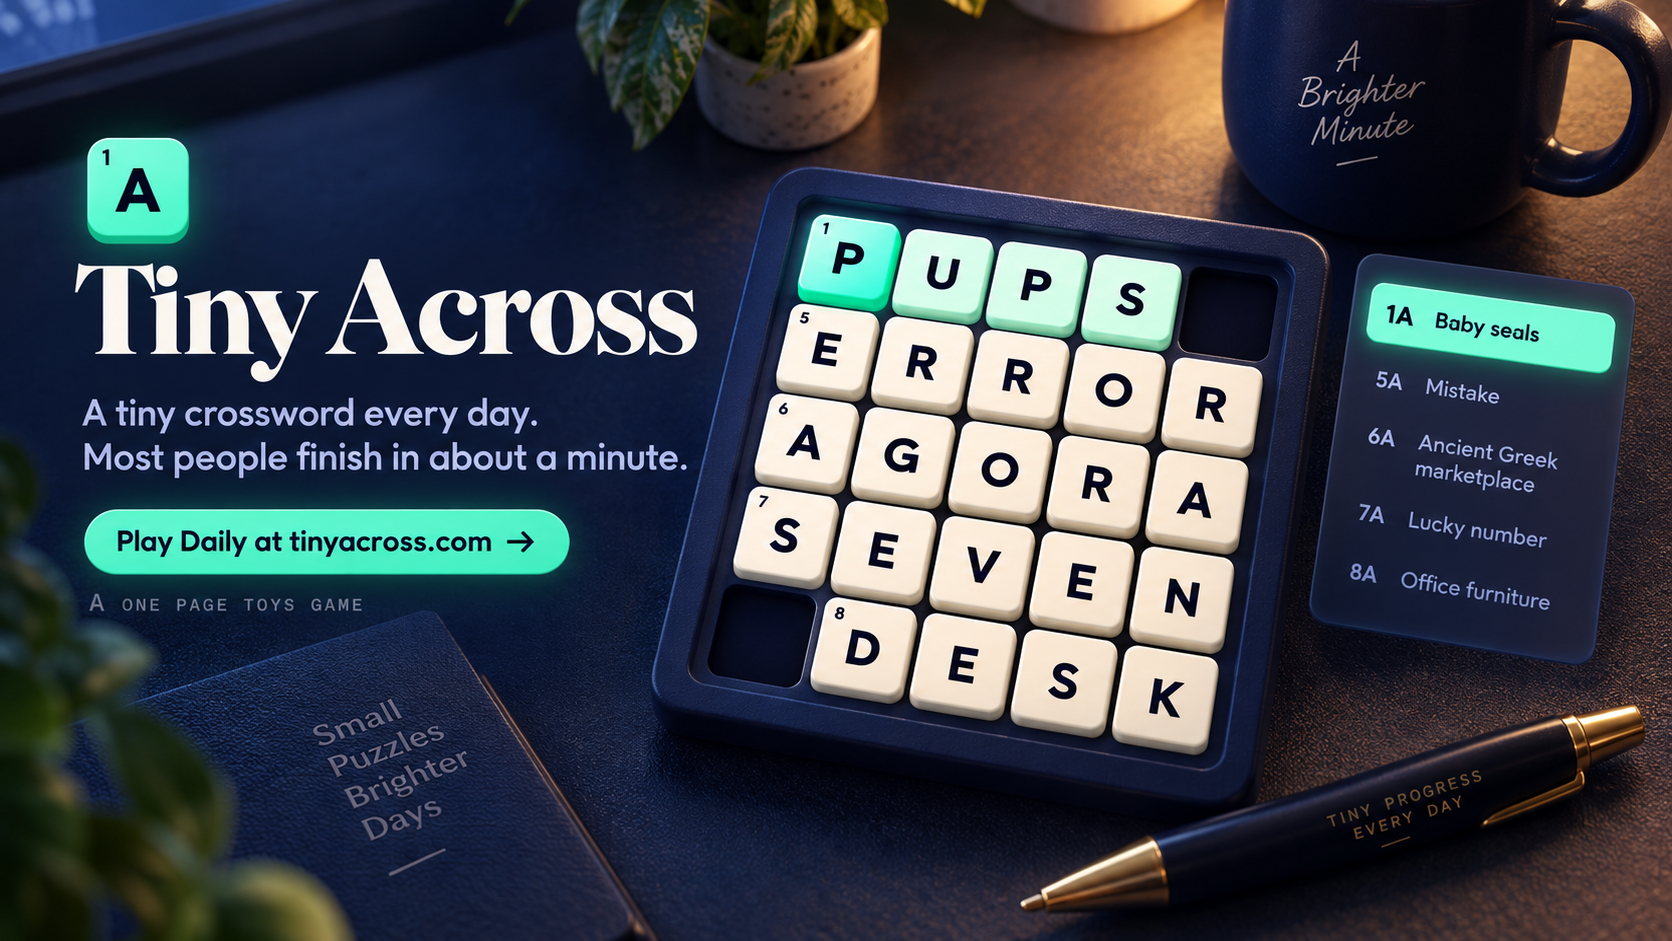
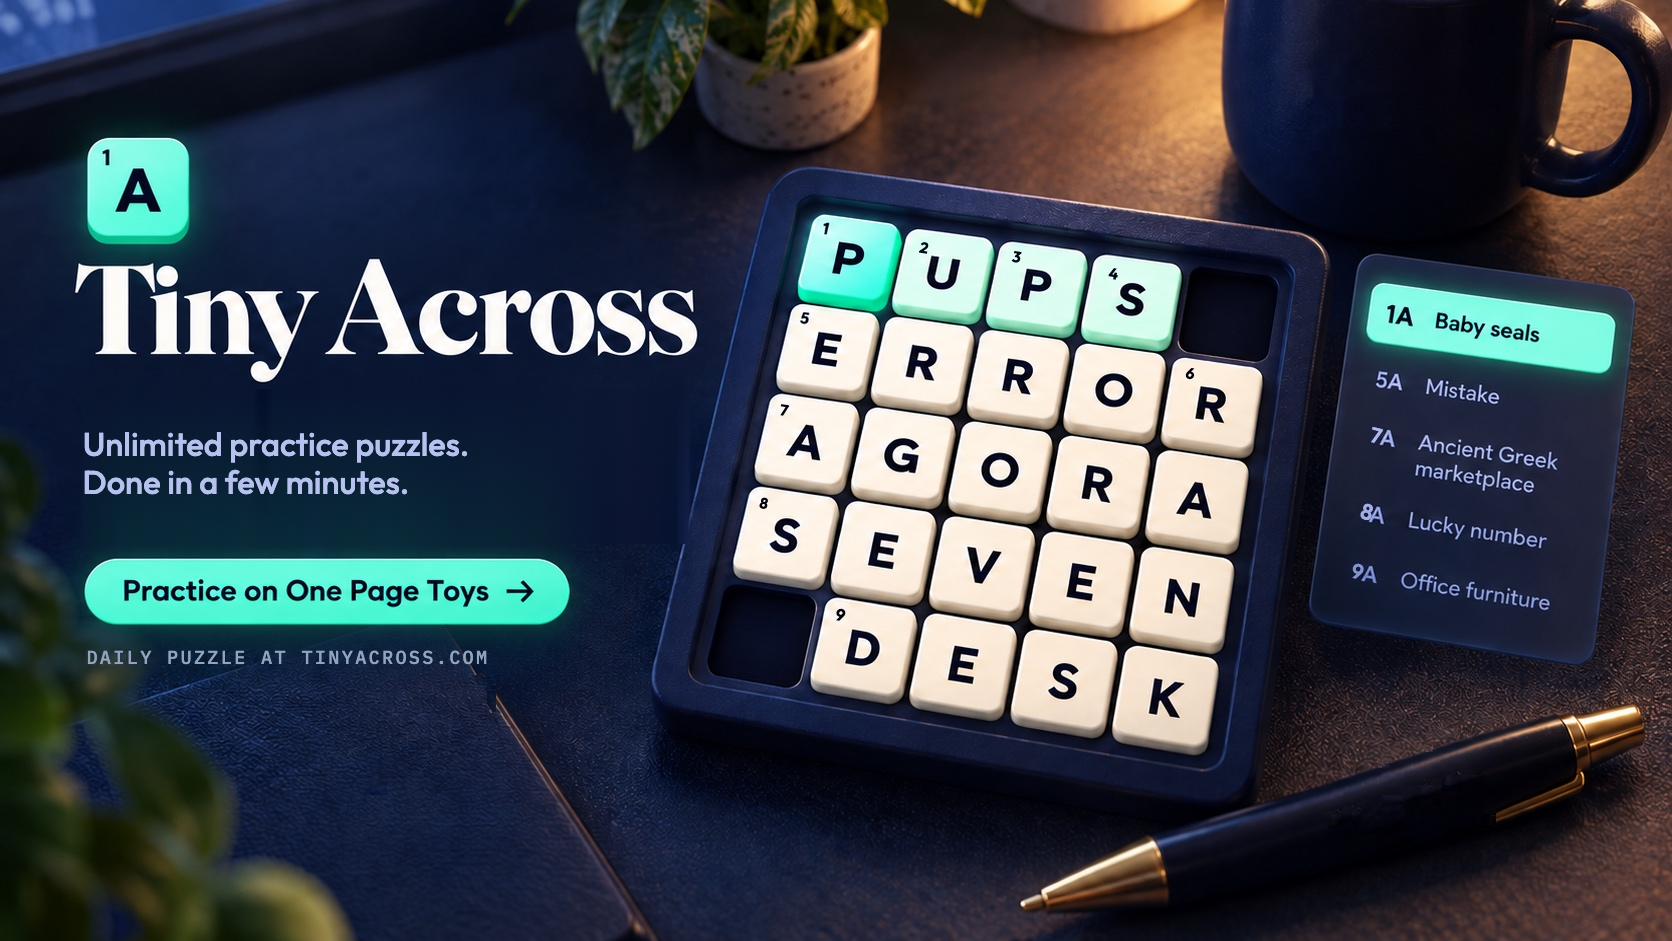
Tiny Across: wire the desk-scene share image and featured art
Completes 8e873a4, which went out with only the old PNG's deletion (a
failed git add on the already-staged path). Page og:image/twitter:image
now point at assets/og/tiny-across.jpg (1200x628 JPEG, 228KB); featured
art replaced from the corrected scene, featured URLs ?v=5, main.js ?v=115
on the 8 hub pages.

diff --git a/scripts/og-gen.html b/scripts/og-gen.html
@@ -195,6 +195,9 @@ var TOYS = {
   "moon-phase":{no:"No. 104",eye:"TOOL · SKY",name:"Moon Phase",desc:"Tonight's moon, drawn as it actually looks — the real seas and rayed craters of the near side, lit exactly as far as the sun has reached. Scrub the days, check any date.",bg:"radial-gradient(120% 100% at 52% 28%, #232c4e 0%, #141a30 55%, #070a14 100%)",accent:"#9aa8f0",motif:img("moon-phase")},
   "golden-hour":{no:"No. 105",eye:"TOOL · LIGHT",name:"Golden Hour",desc:"The whole day drawn as one ribbon of light — night, blue hour, golden hour, daylight — with a live countdown to the next golden hour where you are.",bg:"radial-gradient(120% 100% at 64% 34%, #7a4416 0%, #35210f 58%, #150d06 100%)",accent:"#f0a94b",motif:img("golden-hour")},
   "typing-speed":{no:"No. 106",eye:"TOOL · SPEED",name:"Typing Speed",desc:"How fast do you actually type? Live words per minute and accuracy, a trail of your speed across the run, and the keys that were costing you time.",bg:"radial-gradient(120% 100% at 58% 36%, #114430 0%, #0b2a1f 58%, #04120c 100%)",accent:"#4fd08c",motif:img("typing-speed")},
+  // tiny-across: UNUSED. The page ships owner-made art, assets/og/tiny-across.jpg (1200x628 JPEG cropped
+  // from assets/featured/_sources/tiny-across.png, the same art as its featured image: 30px off the top,
+  // 36px off the bottom, then scaled).
   "tiny-across":{no:"No. 119",eye:"GAME \u00b7 WORD",name:"Tiny Across",desc:"A tiny crossword with ten short clues. It takes a few minutes. Unlimited practice here; the daily puzzle lives at tinyacross.com.",bg:"radial-gradient(120% 100% at 46% 26%, #222b63 0%, #121838 56%, #070a18 100%)",accent:"#3ee6b4",motif:img("tiny-across")},
   "chess":{no:"No. 118",eye:"GAME \u00b7 STRATEGY",name:"Chess",desc:"Six opponents who each want something different from the board \u2014 greed, sacrifice, structure, chaos. Obsidian and alabaster under one warm light.",bg:"radial-gradient(120% 100% at 46% 26%, #1b2030 0%, #0d1018 56%, #05060a 100%)",accent:"#e8a13c",motif:img("chess")},
   "skyscrapers":{no:"No. 117",eye:"PUZZLE \u00b7 LOGIC",name:"Skyscrapers",desc:"The numbers are building heights. Each edge clue counts the towers you can see from there, because a taller one hides every shorter one behind it.",bg:"radial-gradient(120% 100% at 48% 28%, #191a38 0%, #0d0f24 54%, #05060e 100%)",accent:"#ffb44a",motif:img("skyscrapers")},

diff --git a/toys/tiny-across/index.html b/toys/tiny-across/index.html
@@ -23,15 +23,15 @@
     <meta property="og:title" content="Tiny Across — One Page Toys" />
     <meta property="og:description" content="A tiny crossword you can finish in a few minutes. Unlimited practice; the daily puzzle lives at tinyacross.com." />
     <meta property="og:url" content="https://onepagetoys.com/toys/tiny-across/" />
-    <meta property="og:image" content="https://onepagetoys.com/assets/og/tiny-across.png?v=2" />
+    <meta property="og:image" content="https://onepagetoys.com/assets/og/tiny-across.jpg" />
     <meta property="og:image:width" content="1200" />
-    <meta property="og:image:height" content="630" />
-    <meta property="og:image:type" content="image/png" />
+    <meta property="og:image:height" content="628" />
+    <meta property="og:image:type" content="image/jpeg" />
     <meta property="og:locale" content="en_US" />
     <meta name="twitter:card" content="summary_large_image" />
     <meta name="twitter:title" content="Tiny Across — One Page Toys" />
     <meta name="twitter:description" content="A tiny crossword you can finish in a few minutes." />
-    <meta name="twitter:image" content="https://onepagetoys.com/assets/og/tiny-across.png?v=2" />
+    <meta name="twitter:image" content="https://onepagetoys.com/assets/og/tiny-across.jpg" />
     <script type="application/ld+json">
       {
         "@context": "https://schema.org",

diff --git a/assets/main.js b/assets/main.js
@@ -1350,7 +1350,7 @@ function renderNewestPanel() {
       // same rule as the home spotlight: key art paints every longhand inline so
       // no [data-slug] card motif can bleed through it
       const prev = sec.querySelector(".card__preview");
-      if (prev) prev.style.background = '#07070b url("/assets/featured/' + t.slug + '.webp?v=4") center / cover no-repeat';
+      if (prev) prev.style.background = '#07070b url("/assets/featured/' + t.slug + '.webp?v=5") center / cover no-repeat';
     }
   }
 
@@ -1401,7 +1401,7 @@ function renderHomeHero() {
       prev.removeAttribute("data-slug");
       prev.classList.add("card__preview--art");
       prev.style.background =
-        '#07070b url("/assets/featured/' + t.slug + '.webp?v=4") center / cover no-repeat';
+        '#07070b url("/assets/featured/' + t.slug + '.webp?v=5") center / cover no-repeat';
       // the art carries the toy's own logo, so the heading would just repeat it:
       // keep it for screen readers only and let the panel re-space itself
       sec.classList.add("home-featured--art");

diff --git a/all-toys/audio/index.html b/all-toys/audio/index.html
@@ -295,7 +295,7 @@
       </div>
     </footer>
 
-    <script src="../../assets/main.js?v=114" defer></script>
+    <script src="../../assets/main.js?v=115" defer></script>
     <script src="../../assets/theme.js?v=8" defer></script>
     <script src="../../assets/tickets.js?v=26" defer></script>
     <script src="../../assets/prizes.js?v=1" defer></script>

diff --git a/all-toys/game/index.html b/all-toys/game/index.html
@@ -295,7 +295,7 @@
       </div>
     </footer>
 
-    <script src="../../assets/main.js?v=114" defer></script>
+    <script src="../../assets/main.js?v=115" defer></script>
     <script src="../../assets/theme.js?v=8" defer></script>
     <script src="../../assets/tickets.js?v=26" defer></script>
     <script src="../../assets/prizes.js?v=1" defer></script>

diff --git a/all-toys/simulation/index.html b/all-toys/simulation/index.html
@@ -295,7 +295,7 @@
       </div>
     </footer>
 
-    <script src="../../assets/main.js?v=114" defer></script>
+    <script src="../../assets/main.js?v=115" defer></script>
     <script src="../../assets/theme.js?v=8" defer></script>
     <script src="../../assets/tickets.js?v=26" defer></script>
     <script src="../../assets/prizes.js?v=1" defer></script>

diff --git a/all-toys/utility/index.html b/all-toys/utility/index.html
@@ -295,7 +295,7 @@
       </div>
     </footer>
 
-    <script src="../../assets/main.js?v=114" defer></script>
+    <script src="../../assets/main.js?v=115" defer></script>
     <script src="../../assets/theme.js?v=8" defer></script>
     <script src="../../assets/tickets.js?v=26" defer></script>
     <script src="../../assets/prizes.js?v=1" defer></script>

diff --git a/all-toys/visual/index.html b/all-toys/visual/index.html
@@ -295,7 +295,7 @@
       </div>
     </footer>
 
-    <script src="../../assets/main.js?v=114" defer></script>
+    <script src="../../assets/main.js?v=115" defer></script>
     <script src="../../assets/theme.js?v=8" defer></script>
     <script src="../../assets/tickets.js?v=26" defer></script>
     <script src="../../assets/prizes.js?v=1" defer></script>

diff --git a/all-toys/wellness/index.html b/all-toys/wellness/index.html
@@ -295,7 +295,7 @@
       </div>
     </footer>
 
-    <script src="../../assets/main.js?v=114" defer></script>
+    <script src="../../assets/main.js?v=115" defer></script>
     <script src="../../assets/theme.js?v=8" defer></script>
     <script src="../../assets/tickets.js?v=26" defer></script>
     <script src="../../assets/prizes.js?v=1" defer></script>

diff --git a/all-toys/index.html b/all-toys/index.html
@@ -297,7 +297,7 @@
       </div>
     </footer>
 
-    <script src="../assets/main.js?v=114" defer></script>
+    <script src="../assets/main.js?v=115" defer></script>
     <script src="../assets/theme.js?v=8" defer></script>
     <script src="../assets/tickets.js?v=26" defer></script>
     <script src="../assets/prizes.js?v=1" defer></script>

diff --git a/index.html b/index.html
@@ -289,7 +289,7 @@
       </div>
     </footer>
 
-    <script src="assets/main.js?v=114" defer></script>
+    <script src="assets/main.js?v=115" defer></script>
     <script src="assets/theme.js?v=8" defer></script>
     <script src="assets/tickets.js?v=26" defer></script>
     <script src="assets/prizes.js?v=1" defer></script>
